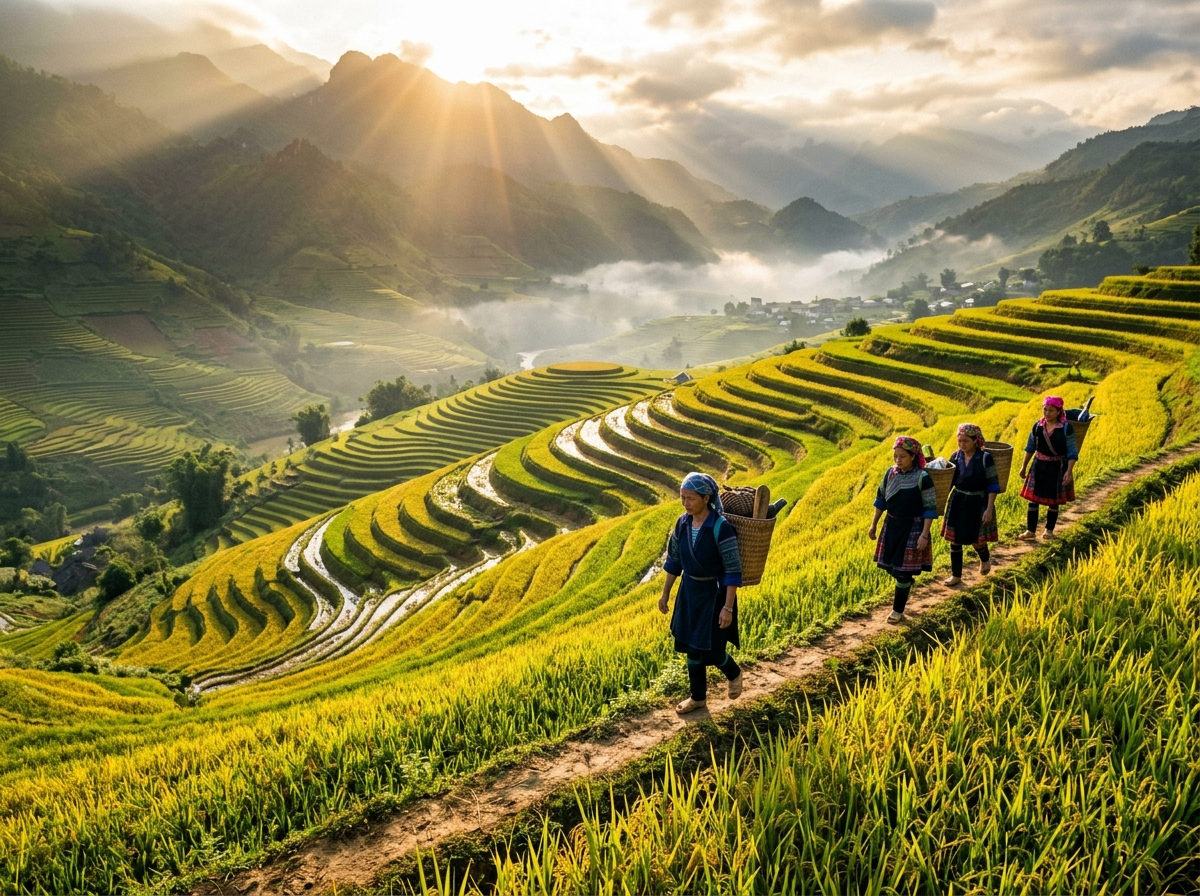
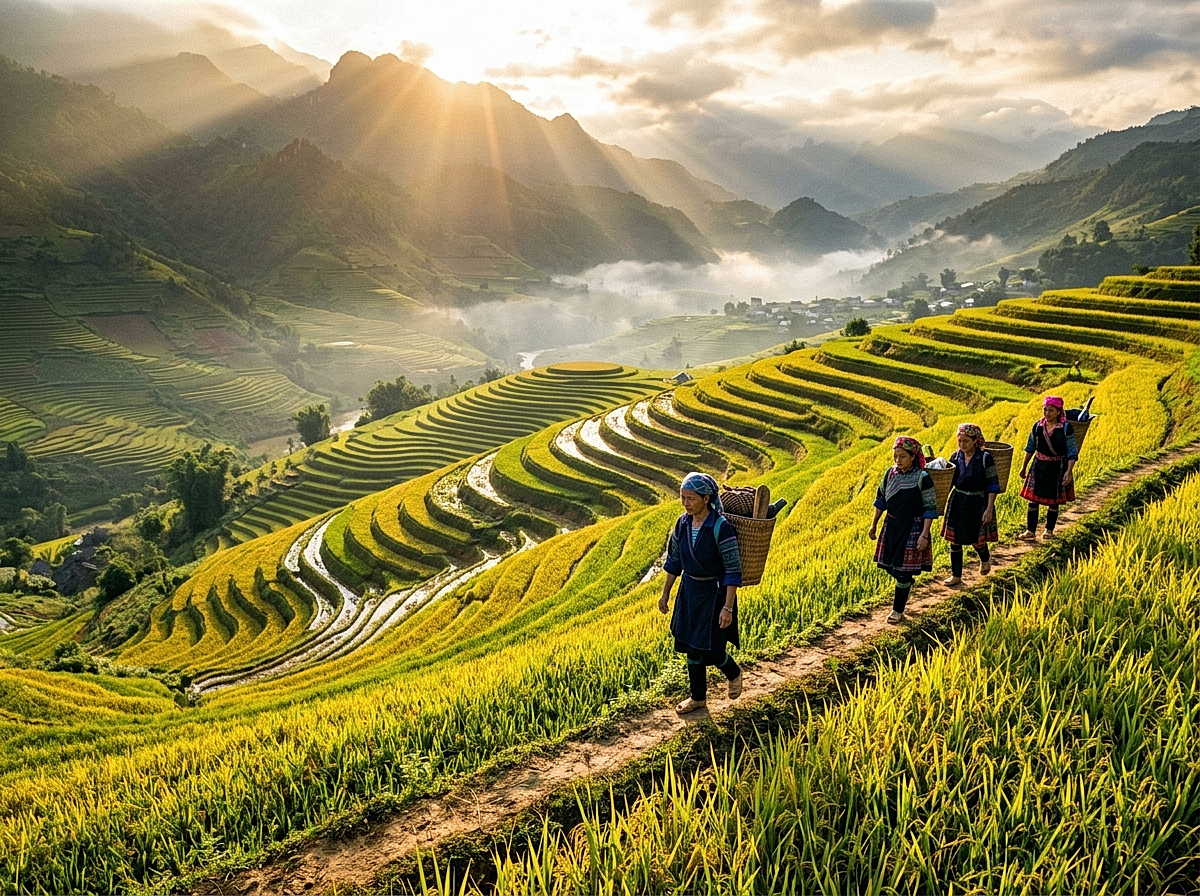
feat(guide): bo sung Other itineraries, Related Articles va footer Homepage vao 1 Month in Vietnam

diff --git a/frontend/app/(public)/guide/1-month-in-vietnam/page.js b/frontend/app/(public)/guide/1-month-in-vietnam/page.js
@@ -1050,85 +1050,163 @@ export default function OneMonthInVietnamPage() {
           </ul>
         </section>
 
-        {/* ─── 1 MONTH IN VIETNAM COSTS (SCREENSHOT 5) ─── */}
+        {/* ─── 1 MONTH IN VIETNAM COSTS (IMAGE 1) ─── */}
         <section className="omi-costs-box">
           <h2 className="omi-section-title">
             {isVi ? "Chi phí du lịch Việt Nam 1 tháng" : "1 month in Vietnam costs"}
           </h2>
-          <p className="omi-costs-intro">
+          <p className="omi-costs-intro" style={{ textAlign: "left", marginBottom: "16px" }}>
             {isVi
-              ? "Nếu bạn đang lên kế hoạch cho chuyến du lịch 1 tháng tại Việt Nam, việc chuẩn bị ngân sách dự kiến là rất hữu ích. Trung bình, nhiều du khách chi tiêu từ 1.000 đến 1.500 USD cho một tháng tại Việt Nam, tùy thuộc vào phong cách du lịch, lựa chọn lưu trú và các hoạt động trải nghiệm."
-              : "If you're planning a 1-month trip to Vietnam, it's helpful to have an estimated budget in mind. On average, many travelers spend between $1,000 and $1,500 USD for a month in Vietnam, depending on travel style, accommodation preferences, and activities."}
+              ? "Nếu bạn đang lên kế hoạch cho chuyến du lịch 1 tháng tại Việt Nam, việc chuẩn bị ngân sách dự kiến là rất cần thiết. Trung bình, nhiều du khách chi tiêu khoảng 1.000 USD cho chuyến đi của mình. Dưới đây là bảng phân bổ chi phí cố định ước tính giúp bạn lên kế hoạch:"
+              : "If you're planning a 1-month trip to Vietnam, it's helpful to have an estimated budget in mind. On average, many tourists spend around $1,000 on their trip. Here's a breakdown of estimated fixed costs to help you plan:"}
           </p>
 
-          <div className="omi-costs-grid">
-            <div className="omi-cost-card">
-              <div className="omi-cost-card__header">
-                <span className="omi-cost-card__title">
-                  {isVi ? "Lưu trú (30 đêm)" : "Accommodation (30 nights)"}
-                </span>
-                <span className="omi-cost-card__price">$300 – $600 USD</span>
-              </div>
-              <p className="omi-cost-card__desc">
-                {isVi
-                  ? "Hostel / Homestay tiện nghi: $10–$15/đêm hoặc Khách sạn boutique 3 sao: $20–$35/đêm."
-                  : "Hostels & guesthouses ($10–$15/night) or comfortable 3-star boutique hotels ($20–$35/night)."}
-              </p>
-            </div>
-
-            <div className="omi-cost-card">
-              <div className="omi-cost-card__header">
-                <span className="omi-cost-card__title">
-                  {isVi ? "Ẩm thực & Đồ uống" : "Food & Drinks"}
-                </span>
-                <span className="omi-cost-card__price">$300 – $450 USD</span>
-              </div>
-              <p className="omi-cost-card__desc">
-                {isVi
-                  ? "Thưởng thức phở, bánh mì, cà phê trứng, hải sản tươi sống và ẩm thực địa phương (~$10–$15/ngày)."
-                  : "Street food favorites (pho, banh mi), egg coffee, fresh seafood, and casual local eateries (~$10–$15/day)."}
-              </p>
-            </div>
-
-            <div className="omi-cost-card">
-              <div className="omi-cost-card__header">
-                <span className="omi-cost-card__title">
-                  {isVi ? "Phương tiện di chuyển nội địa" : "Domestic Transportation"}
-                </span>
-                <span className="omi-cost-card__price">$250 – $350 USD</span>
-              </div>
-              <p className="omi-cost-card__desc">
-                {isVi
-                  ? "Vé máy bay Sài Gòn - Phú Quốc, tàu hỏa Bắc-Nam, xe limousine giường nằm, phà biển Cát Bà và Grab."
-                  : "Domestic flights to Phu Quoc, scenic trains, sleeper & limousine buses, speed ferries, and city Grab rides."}
-              </p>
-            </div>
-
-            <div className="omi-cost-card">
-              <div className="omi-cost-card__header">
-                <span className="omi-cost-card__title">
-                  {isVi ? "Vé tham quan & Tour trải nghiệm" : "Activities & Sightseeing"}
-                </span>
-                <span className="omi-cost-card__price">$150 – $250 USD</span>
-              </div>
-              <p className="omi-cost-card__desc">
-                {isVi
-                  ? "Du thuyền Vịnh Hạ Long, cáp treo Fansipan & Bà Nà Hills, tour khám phá hang động Phong Nha."
-                  : "Ha Long Bay cruise, Fansipan cable car, Ba Na Hills, Phong Nha cave explorations, and entrance fees."}
-              </p>
-            </div>
-          </div>
-
-          <div className="omi-costs-total-box">
-            <div className="omi-costs-total-label">
-              {isVi ? "Tổng chi phí ước tính trọn gói 1 tháng:" : "Estimated Total Cost for 1 Month:"}
-            </div>
-            <div className="omi-costs-total-amount">$1,000 – $1,650 USD</div>
-            <div className="omi-costs-total-sub">
+          <ul className="omi-notes-list" style={{ marginTop: "12px" }}>
+            <li>
               {isVi
-                ? "(Tương đương khoảng 25.000.000 – 41.000.000 VNĐ / người cho toàn bộ 17 điểm đến)"
-                : "(Approximately 25,000,000 – 41,000,000 VND per person for all 17 destinations)"}
-            </div>
+                ? "Chi phí phương tiện di chuyển ước tính khoảng 250 USD."
+                : "Transportation costs are approximately $250."}
+            </li>
+            <li>
+              {isVi
+                ? "Chi phí lưu trú tại khách sạn riêng hoặc homestay dao động khoảng 15 đến 20 USD mỗi đêm. Đối với du khách đi một mình, phòng ký túc xá (hostel) là lựa chọn tiết kiệm hơn với mức giá từ khoảng 5 USD mỗi đêm."
+                : "Accommodation in a private hotel or homestay will cost around $15 to $20 per night. For solo travelers, hostels can be a more affordable option, with prices starting at around $5 per night."}
+            </li>
+            <li>
+              {isVi
+                ? "Chi phí ăn uống thông thường khoảng 15 USD mỗi người mỗi ngày."
+                : "Food costs are typically around $15 per person per day."}
+            </li>
+            <li>
+              {isVi
+                ? "Vé vào cổng các di tích lịch sử, bảo tàng và danh lam thắng cảnh dao động khoảng 1 – 5 USD."
+                : "Admission to monuments, museums, and attractions costs around $1 – $5."}
+            </li>
+          </ul>
+        </section>
+
+        {/* ─── OTHER ITINERARIES (IMAGE 1) ─── */}
+        <section className="omi-other-itin-section">
+          <h2 className="omi-section-title">
+            {isVi ? "Các lịch trình khác" : "Other itineraries"}
+          </h2>
+          <div className="omi-other-itin-grid">
+            <Link
+              href="/guide/plan-your-vietnam-trip-with-just-one-prompt"
+              className="omi-other-itin-card"
+            >
+              <div className="omi-other-itin-img-wrap">
+                <img
+                  src="/guide/vietnam/10-day-vietnam-itinerary-map.jpg"
+                  alt="10-day Vietnam Itinerary"
+                  className="omi-other-itin-img"
+                  loading="lazy"
+                />
+              </div>
+              <span className="omi-other-itin-caption">
+                {isVi ? "Lịch trình 10 ngày tại Việt Nam" : "10-day Vietnam Itinerary"}
+              </span>
+            </Link>
+
+            <Link
+              href="/guide/the-complete-guide-to-vietnam"
+              className="omi-other-itin-card"
+            >
+              <div className="omi-other-itin-img-wrap">
+                <img
+                  src="/guide/vietnam/2-week-vietnam-itinerary-map.jpg"
+                  alt="2-week Vietnam Itinerary"
+                  className="omi-other-itin-img"
+                  loading="lazy"
+                />
+              </div>
+              <span className="omi-other-itin-caption">
+                {isVi ? "Lịch trình 2 tuần tại Việt Nam" : "2-week Vietnam Itinerary"}
+              </span>
+            </Link>
+
+            <Link
+              href="/guide/3-week-vietnam-itinerary"
+              className="omi-other-itin-card"
+            >
+              <div className="omi-other-itin-img-wrap">
+                <img
+                  src="/guide/vietnam/3-week-vietnam-itinerary-map.jpg"
+                  alt="3-week Vietnam Itinerary"
+                  className="omi-other-itin-img"
+                  loading="lazy"
+                />
+              </div>
+              <span className="omi-other-itin-caption">
+                {isVi ? "Lịch trình 3 tuần tại Việt Nam" : "3-week Vietnam Itinerary"}
+              </span>
+            </Link>
+          </div>
+        </section>
+
+        {/* ─── HORIZONTAL DIVIDER (IMAGE 2) ─── */}
+        <hr className="omi-divider" />
+
+        {/* ─── RELATED ARTICLES (IMAGE 2) ─── */}
+        <section className="omi-related-section">
+          <h2 className="omi-related-title">
+            {isVi ? "Bài viết liên quan" : "Related Articles"}
+          </h2>
+          <div className="omi-related-grid">
+            <Link
+              href="/guide/3-week-vietnam-itinerary"
+              className="omi-related-card"
+            >
+              <div className="omi-related-img-wrap">
+                <img
+                  src="/guide/hcmc/3-week-vietnam-itinerary.jpg"
+                  alt="3-week Vietnam Itinerary"
+                  className="omi-related-img"
+                  loading="lazy"
+                />
+              </div>
+              <h3 className="omi-related-card-title">
+                {isVi ? "Lịch trình 3 tuần xuyên Việt hoàn hảo" : "3-week Vietnam Itinerary"}
+              </h3>
+            </Link>
+
+            <Link
+              href="/guide/10-best-things-to-do-in-ho-chi-minh-city"
+              className="omi-related-card"
+            >
+              <div className="omi-related-img-wrap">
+                <img
+                  src="/guide/hcmc/hcmc-10-things-bitexco.jpg"
+                  alt="10 best things to do in Ho Chi Minh City"
+                  className="omi-related-img"
+                  loading="lazy"
+                />
+              </div>
+              <h3 className="omi-related-card-title">
+                {isVi
+                  ? "10 trải nghiệm tuyệt nhất ở TP. Hồ Chí Minh"
+                  : "10 best things to do in Ho Chi Minh City"}
+              </h3>
+            </Link>
+
+            <Link
+              href="/guide/8-best-things-to-do-in-nha-trang"
+              className="omi-related-card"
+            >
+              <div className="omi-related-img-wrap">
+                <img
+                  src="/guide/nha-trang/Top-8-things-to-do-in-Nha-Trang-Vietnamnomad.jpg"
+                  alt="8 best things to do in Nha Trang"
+                  className="omi-related-img"
+                  loading="lazy"
+                />
+              </div>
+              <h3 className="omi-related-card-title">
+                {isVi
+                  ? "8 trải nghiệm hấp dẫn nhất tại Nha Trang"
+                  : "8 best things to do in Nha Trang"}
+              </h3>
+            </Link>
           </div>
         </section>
       </main>

diff --git a/frontend/styles/one-month-itinerary.css b/frontend/styles/one-month-itinerary.css
@@ -548,3 +548,157 @@
   margin-top: 4px;
 }
 
+/* ─── OTHER ITINERARIES SECTION (IMAGE 1) ─── */
+.omi-other-itin-section {
+  max-width: 800px;
+  margin: 50px auto 40px;
+}
+
+.omi-other-itin-grid {
+  display: grid;
+  grid-template-columns: repeat(3, 1fr);
+  gap: 24px;
+  margin-top: 24px;
+}
+
+@media (max-width: 640px) {
+  .omi-other-itin-grid {
+    grid-template-columns: 1fr;
+    max-width: 280px;
+    margin: 24px auto 0;
+  }
+}
+
+.omi-other-itin-card {
+  display: flex;
+  flex-direction: column;
+  text-decoration: none;
+  transition: transform 0.2s ease;
+}
+
+.omi-other-itin-card:hover {
+  transform: translateY(-4px);
+}
+
+.omi-other-itin-img-wrap {
+  width: 100%;
+  aspect-ratio: 145 / 204;
+  overflow: hidden;
+  border-radius: 8px;
+  background: #f8fafc;
+  box-shadow: 0 4px 14px rgba(0, 0, 0, 0.08);
+  border: 1px solid #e2e8f0;
+}
+
+.omi-other-itin-img {
+  width: 100%;
+  height: 100%;
+  object-fit: cover;
+  image-rendering: -webkit-optimize-contrast;
+  image-rendering: crisp-edges;
+  transition: transform 0.3s ease;
+}
+
+.omi-other-itin-card:hover .omi-other-itin-img {
+  transform: scale(1.03);
+}
+
+.omi-other-itin-caption {
+  margin-top: 10px;
+  text-align: center;
+  font-style: italic;
+  font-size: 13.5px;
+  color: #475569;
+  text-decoration: none;
+  transition: color 0.2s ease;
+}
+
+.omi-other-itin-card:hover .omi-other-itin-caption {
+  color: #00a8b5;
+}
+
+/* ─── HORIZONTAL DIVIDER (IMAGE 2) ─── */
+.omi-divider {
+  border: 0;
+  height: 1px;
+  background: #e2e8f0;
+  max-width: 860px;
+  margin: 50px auto;
+}
+
+/* ─── RELATED ARTICLES SECTION (IMAGE 2) ─── */
+.omi-related-section {
+  max-width: 900px;
+  margin: 40px auto 70px;
+}
+
+.omi-related-title {
+  text-align: center;
+  font-size: 28px;
+  font-weight: 700;
+  color: #0f172a;
+  margin-bottom: 32px;
+  letter-spacing: -0.01em;
+}
+
+.omi-related-grid {
+  display: grid;
+  grid-template-columns: repeat(3, 1fr);
+  gap: 28px;
+}
+
+@media (max-width: 768px) {
+  .omi-related-grid {
+    grid-template-columns: 1fr;
+    max-width: 360px;
+    margin: 0 auto;
+  }
+}
+
+.omi-related-card {
+  display: flex;
+  flex-direction: column;
+  text-decoration: none;
+  transition: transform 0.2s ease;
+}
+
+.omi-related-card:hover {
+  transform: translateY(-4px);
+}
+
+.omi-related-img-wrap {
+  width: 100%;
+  aspect-ratio: 16 / 10;
+  overflow: hidden;
+  border-radius: 8px;
+  background: #f1f5f9;
+  box-shadow: 0 4px 14px rgba(0, 0, 0, 0.08);
+}
+
+.omi-related-img {
+  width: 100%;
+  height: 100%;
+  object-fit: cover;
+  image-rendering: -webkit-optimize-contrast;
+  image-rendering: crisp-edges;
+  transition: transform 0.3s ease;
+}
+
+.omi-related-card:hover .omi-related-img {
+  transform: scale(1.05);
+}
+
+.omi-related-card-title {
+  font-size: 17px;
+  font-weight: 700;
+  line-height: 1.4;
+  color: #0f172a;
+  margin: 14px 0 0;
+  transition: color 0.2s ease;
+}
+
+.omi-related-card:hover .omi-related-card-title {
+  color: #00a8b5;
+}
+
+
